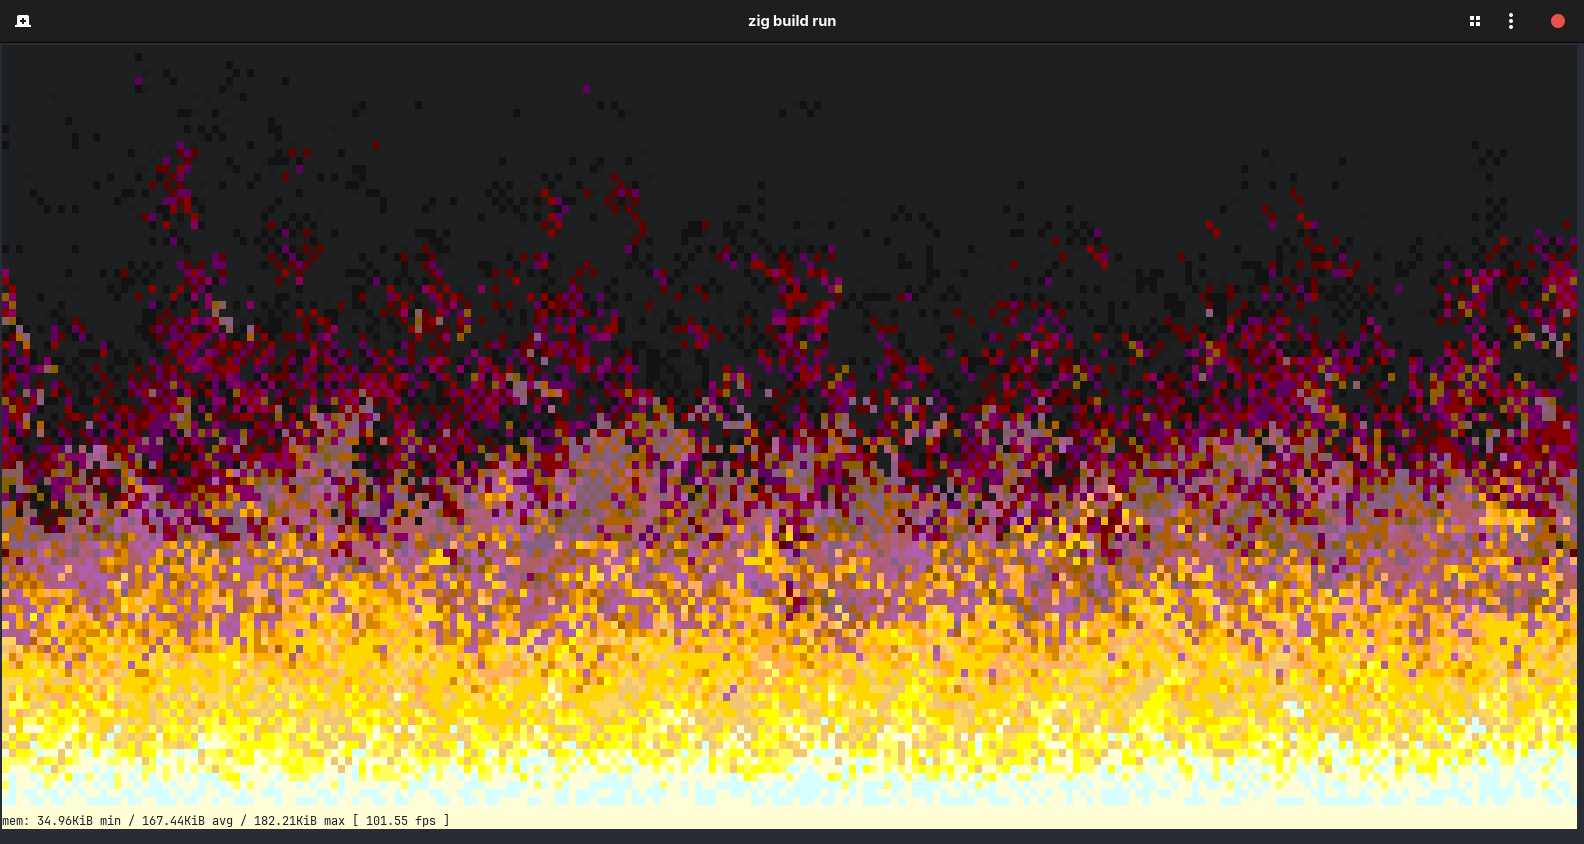
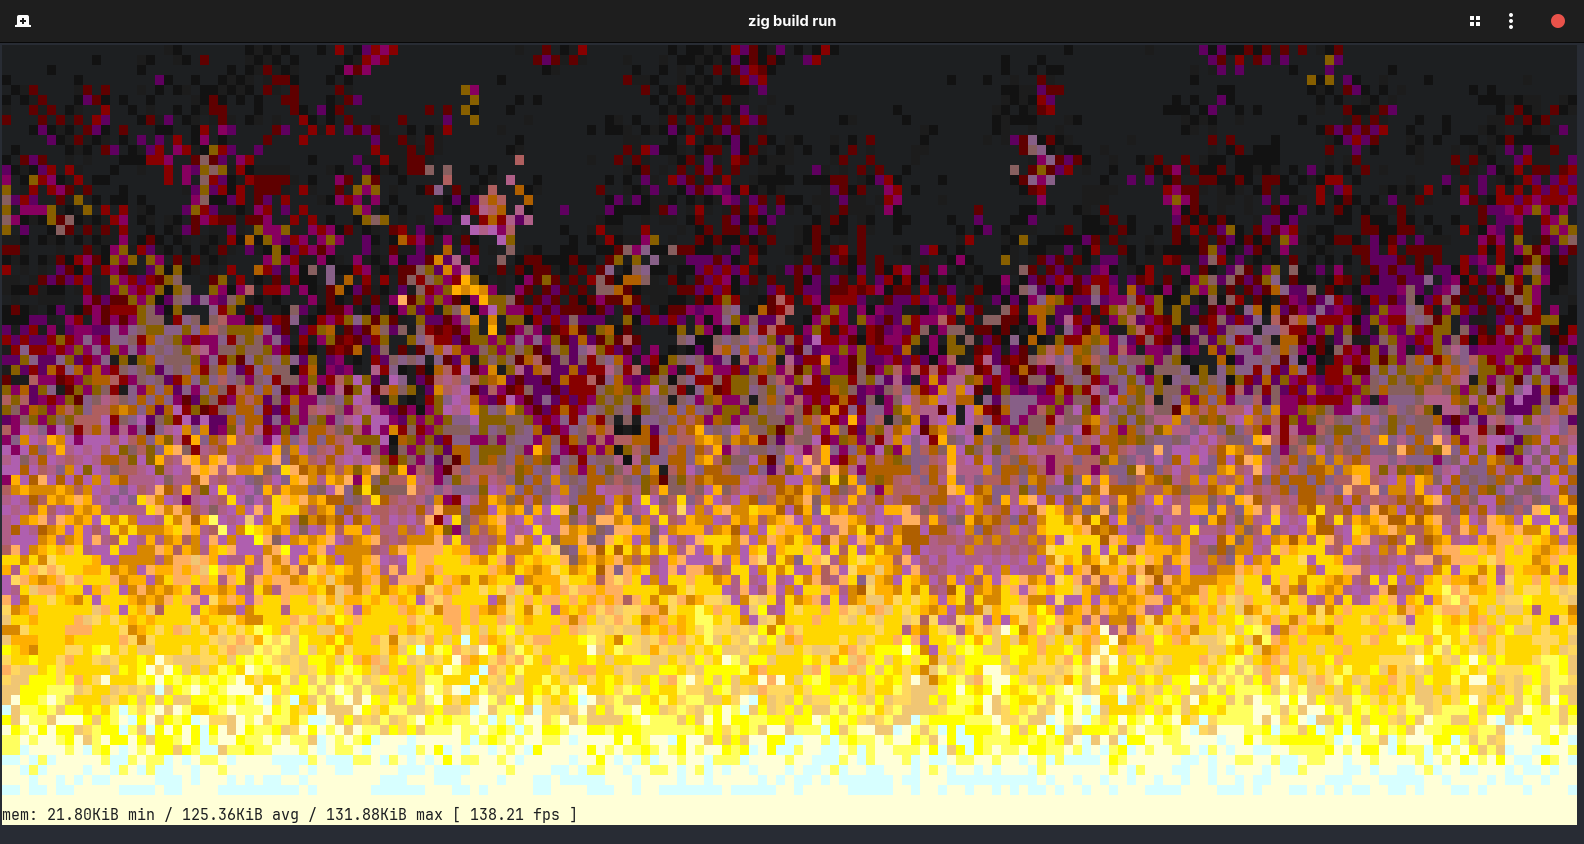
Change terminal size for frame rate test

diff --git a/README.md b/README.md
@@ -39,18 +39,18 @@ Measured in miliseconds(ms) using `time cat <filename>` on [11 MB Shakespeare's 
 ## Frame Rate
 
 Measured in frames per second(FPS) using [DOOM-fire-zig](https://github.com/const-void/DOOM-fire-zig)
-, sized at least 224w x 49h.
+, terminal sized at least 174w x 39h.
 
 > Higher is better
 
 | run | alacritty | foot | ghostty |     kitty | wezterm |
 |----:|----------:|-----:|--------:|----------:|--------:|
-|   1 |       120 |  144 |     101 |       204 |      39 |
-|   2 |       125 |  143 |     100 |       199 |      37 |
-|   3 |       126 |  143 |     101 |       200 |      37 |
-|   4 |       119 |  143 |      99 |       199 |      36 |
-|   5 |       119 |  144 |     101 |       201 |      35 |
-| avg |       122 |  143 |     100 | **_201_** |      37 |
+|   1 |       168 |  199 |     135 |       274 |      67 |
+|   2 |       163 |  200 |     135 |       271 |      64 |
+|   3 |       166 |  199 |     135 |       268 |      67 |
+|   4 |       165 |  198 |     134 |       272 |      61 |
+|   5 |       160 |  200 |     138 |       278 |      63 |
+| avg |       164 |  199 |     135 | **_273_** |      64 |
 
 ## Prompt Speed
 
